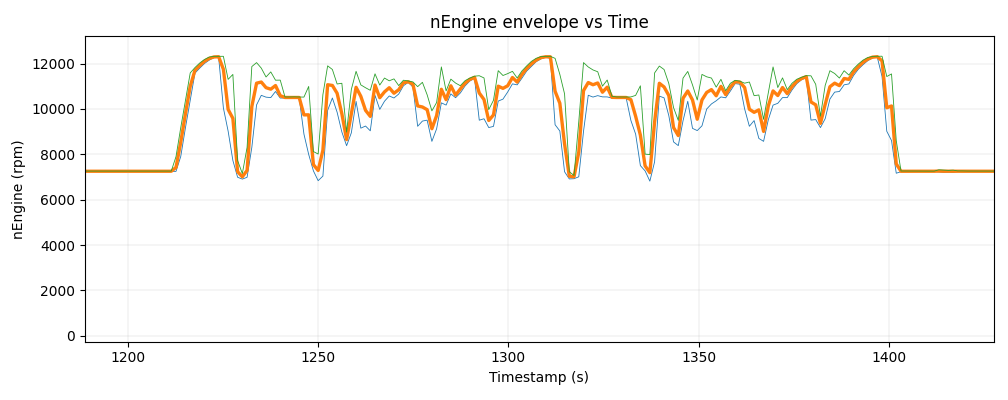
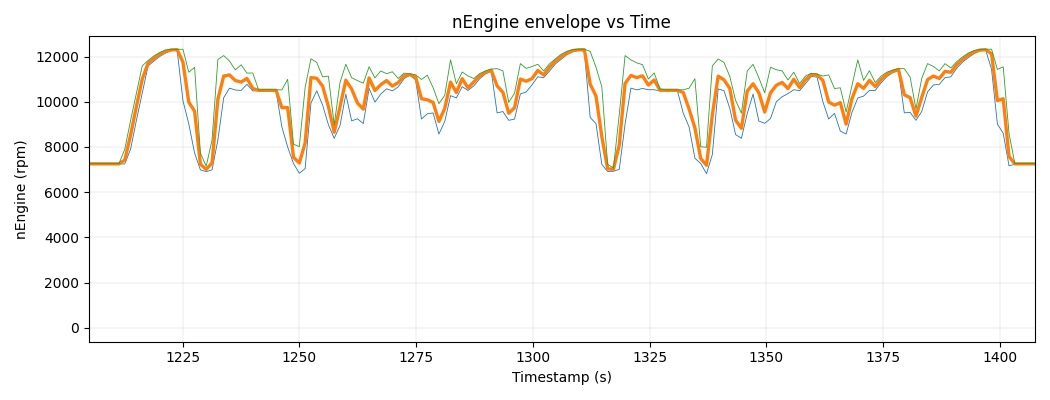
Fix ECU schema

diff --git a/docs/index.md b/docs/index.md
@@ -178,31 +178,27 @@ The network layer aims for realism: it supports multicast group joins, dynamic p
 This treemap illustrates the internal structure of the Formula 1 Engine Control Unit (ECU) based on telemetry channel volume.
 Each block represents a logical subsystem within the ECU - from real-time control loops to data logging and chassis coordination.
 
-The Controller and TAG320BIOS dominate, handling nearly half of all runtime signals: the former executes the ECU scheduler and control logic, while the latter manages low-level logging, BIOS states, and diagnostic coverage. Around them, the Chassis, Coordinator, PSUF1, and BrakeControl modules form the backbone of vehicle dynamics and safety. Finally, smaller application layers such as APP6/APP9 and regulatory interfaces like FIA complete the overall architecture.
+The Controller and TAG320BIOS dominate, handling nearly half of all runtime signals: the former executes the ECU scheduler and control logic, while the latter manages low-level logging, BIOS states, and diagnostic coverage. Around them, the Chassis, Coordinator, and BrakeControl modules form the backbone of vehicle dynamics and safety. Finally, smaller application layers such as Dash and regulatory interfaces like FIA complete the overall architecture.
 
 Together, these components show how a modern F1 ECU combines control, orchestration, and observability into a single embedded platform.
 
 ```mermaid
 treemap-beta
 "Engine Control Unit"
-    "TAG320BIOS"
-        "# Channels": 11000
-    "Controller"
-        "# Channels": 11000
-    "Chassis"
-        "# Channels": 7000
-    "Coordinator"
-        "# Channels": 2000
-    "PSUF1"
-        "# Channels": 2000
+    "SECU SUPPLIER"
+        "BIOS": 11000
     "FIA"
-        "# Channels": 1000
-    "BrakeControl"
-        "# Channels": 1000
-    "APP9"
-        "# Channels": 1000
-    "APP6"
-        "# Channels": 800
+        "FIA": 1200
+        "Chassis": 6600
+        "Arbitrator": 400
+    "TEAM"
+        "TeamMath": 500
+        "Dash": 800
+        "BrakeControl": 1100
+    "PU SUPPLIER"
+        "PUMath": 500
+        "Coordinator": 2300
+        "Controller": 11000
 ```
 
 The ECU exposes tens of thousands of channels. Many are **low-frequency “slow raw”** signals, but a critical subset runs at **high frequency** (e.g., engine speed). To get closer to real track conditions, we now emit multiple high-frequency channels in parallel.